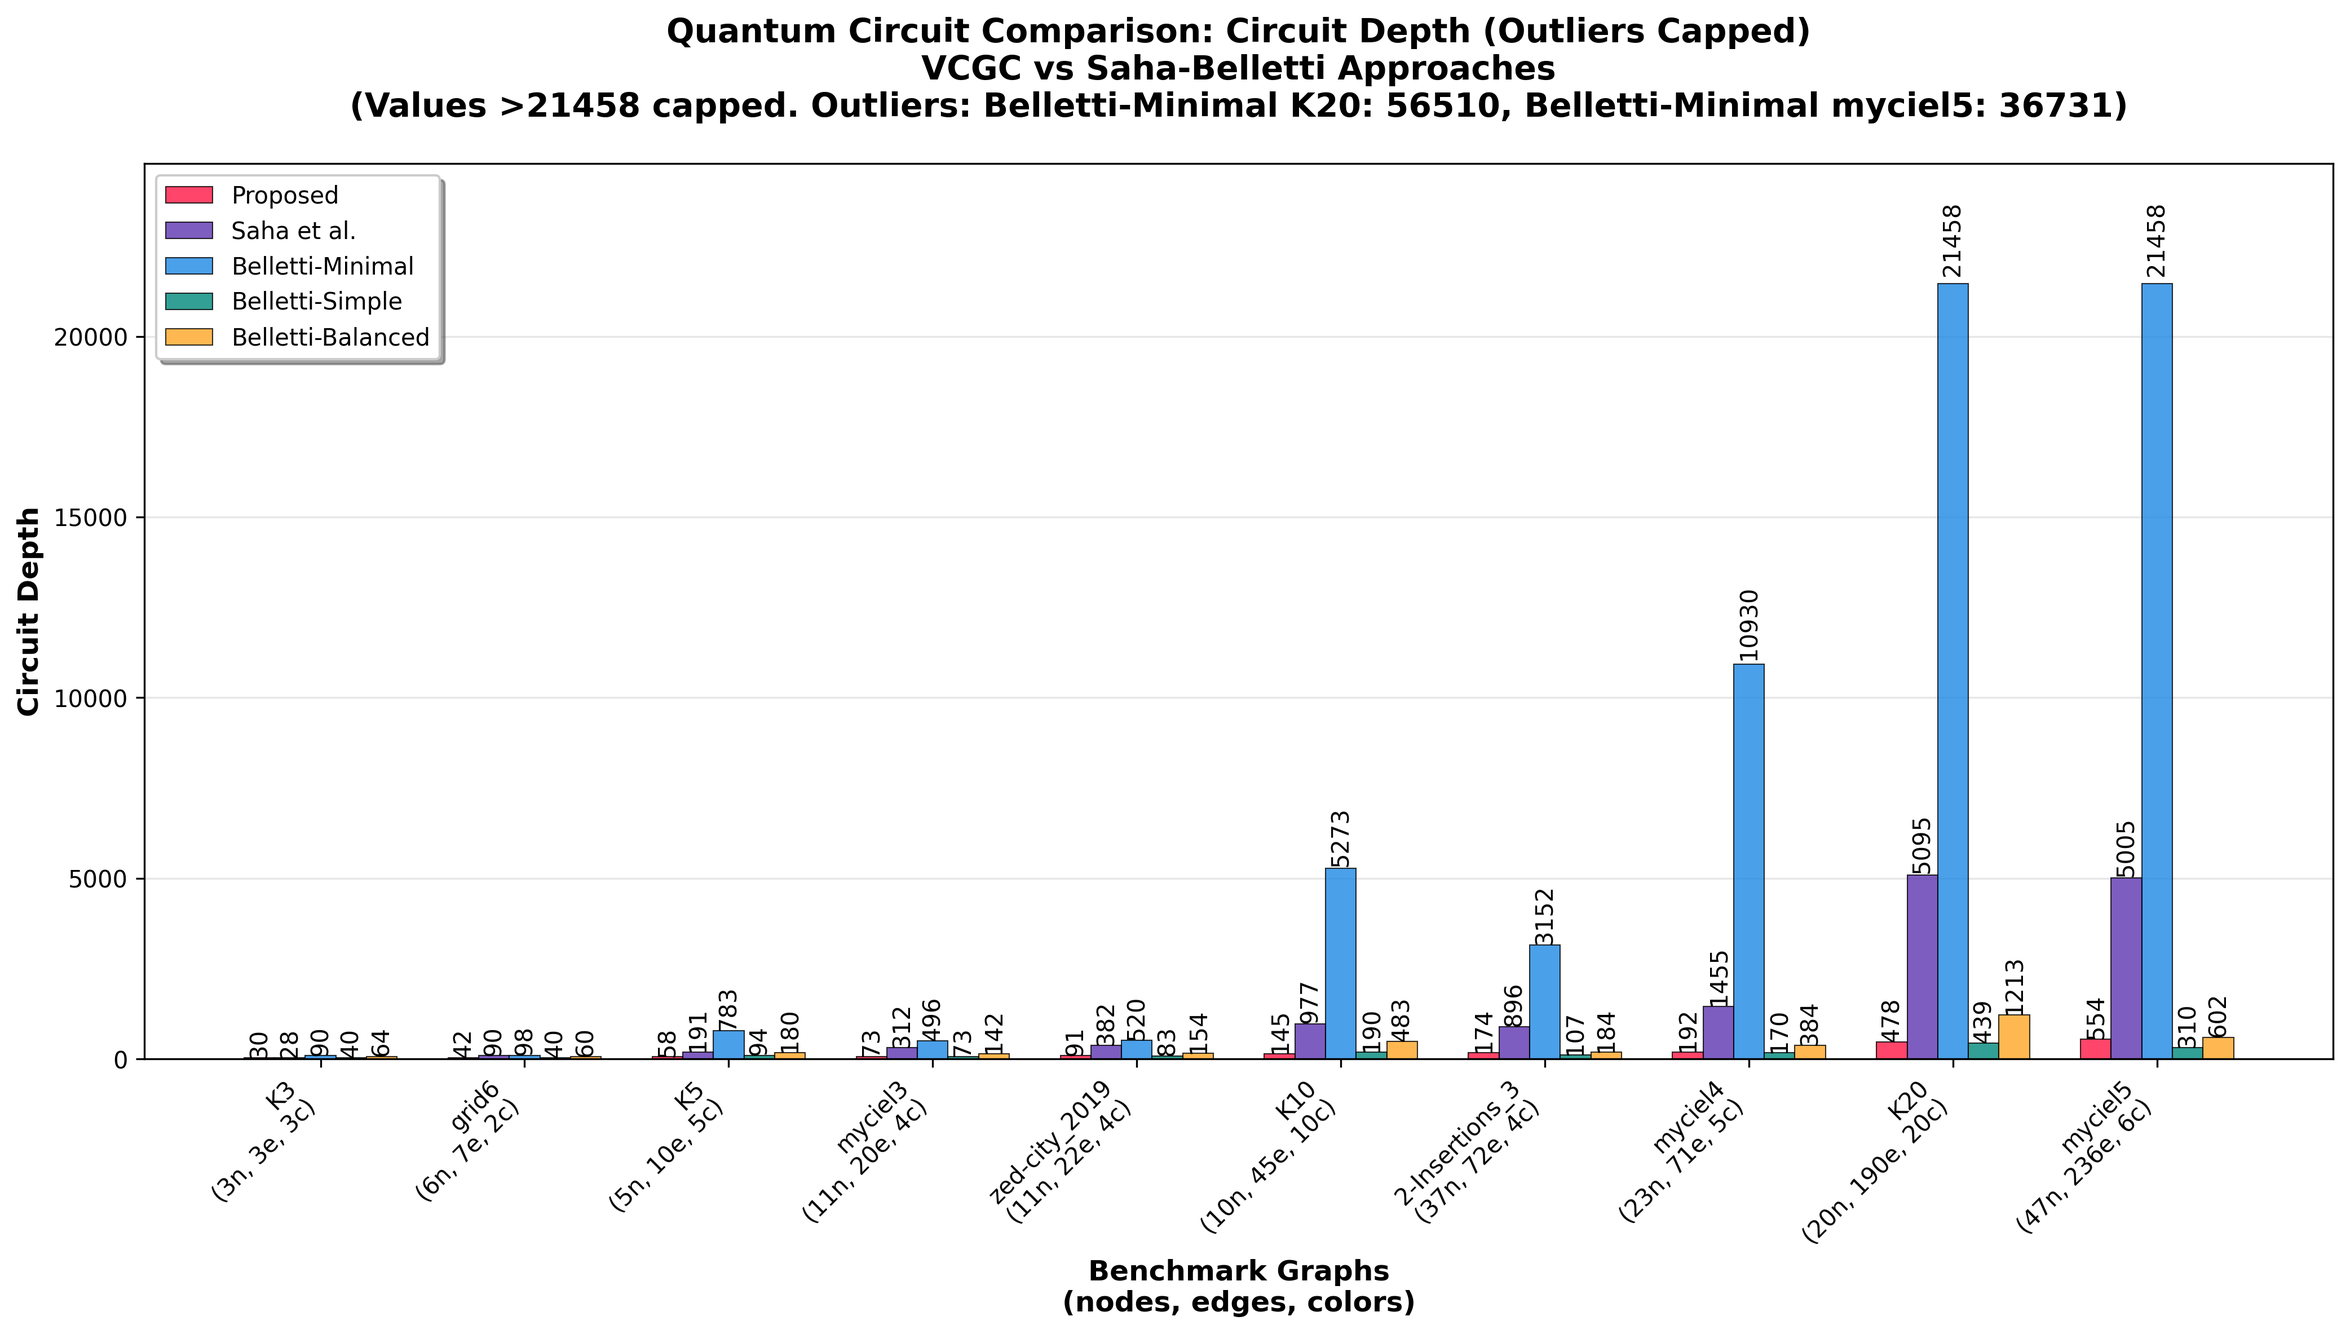
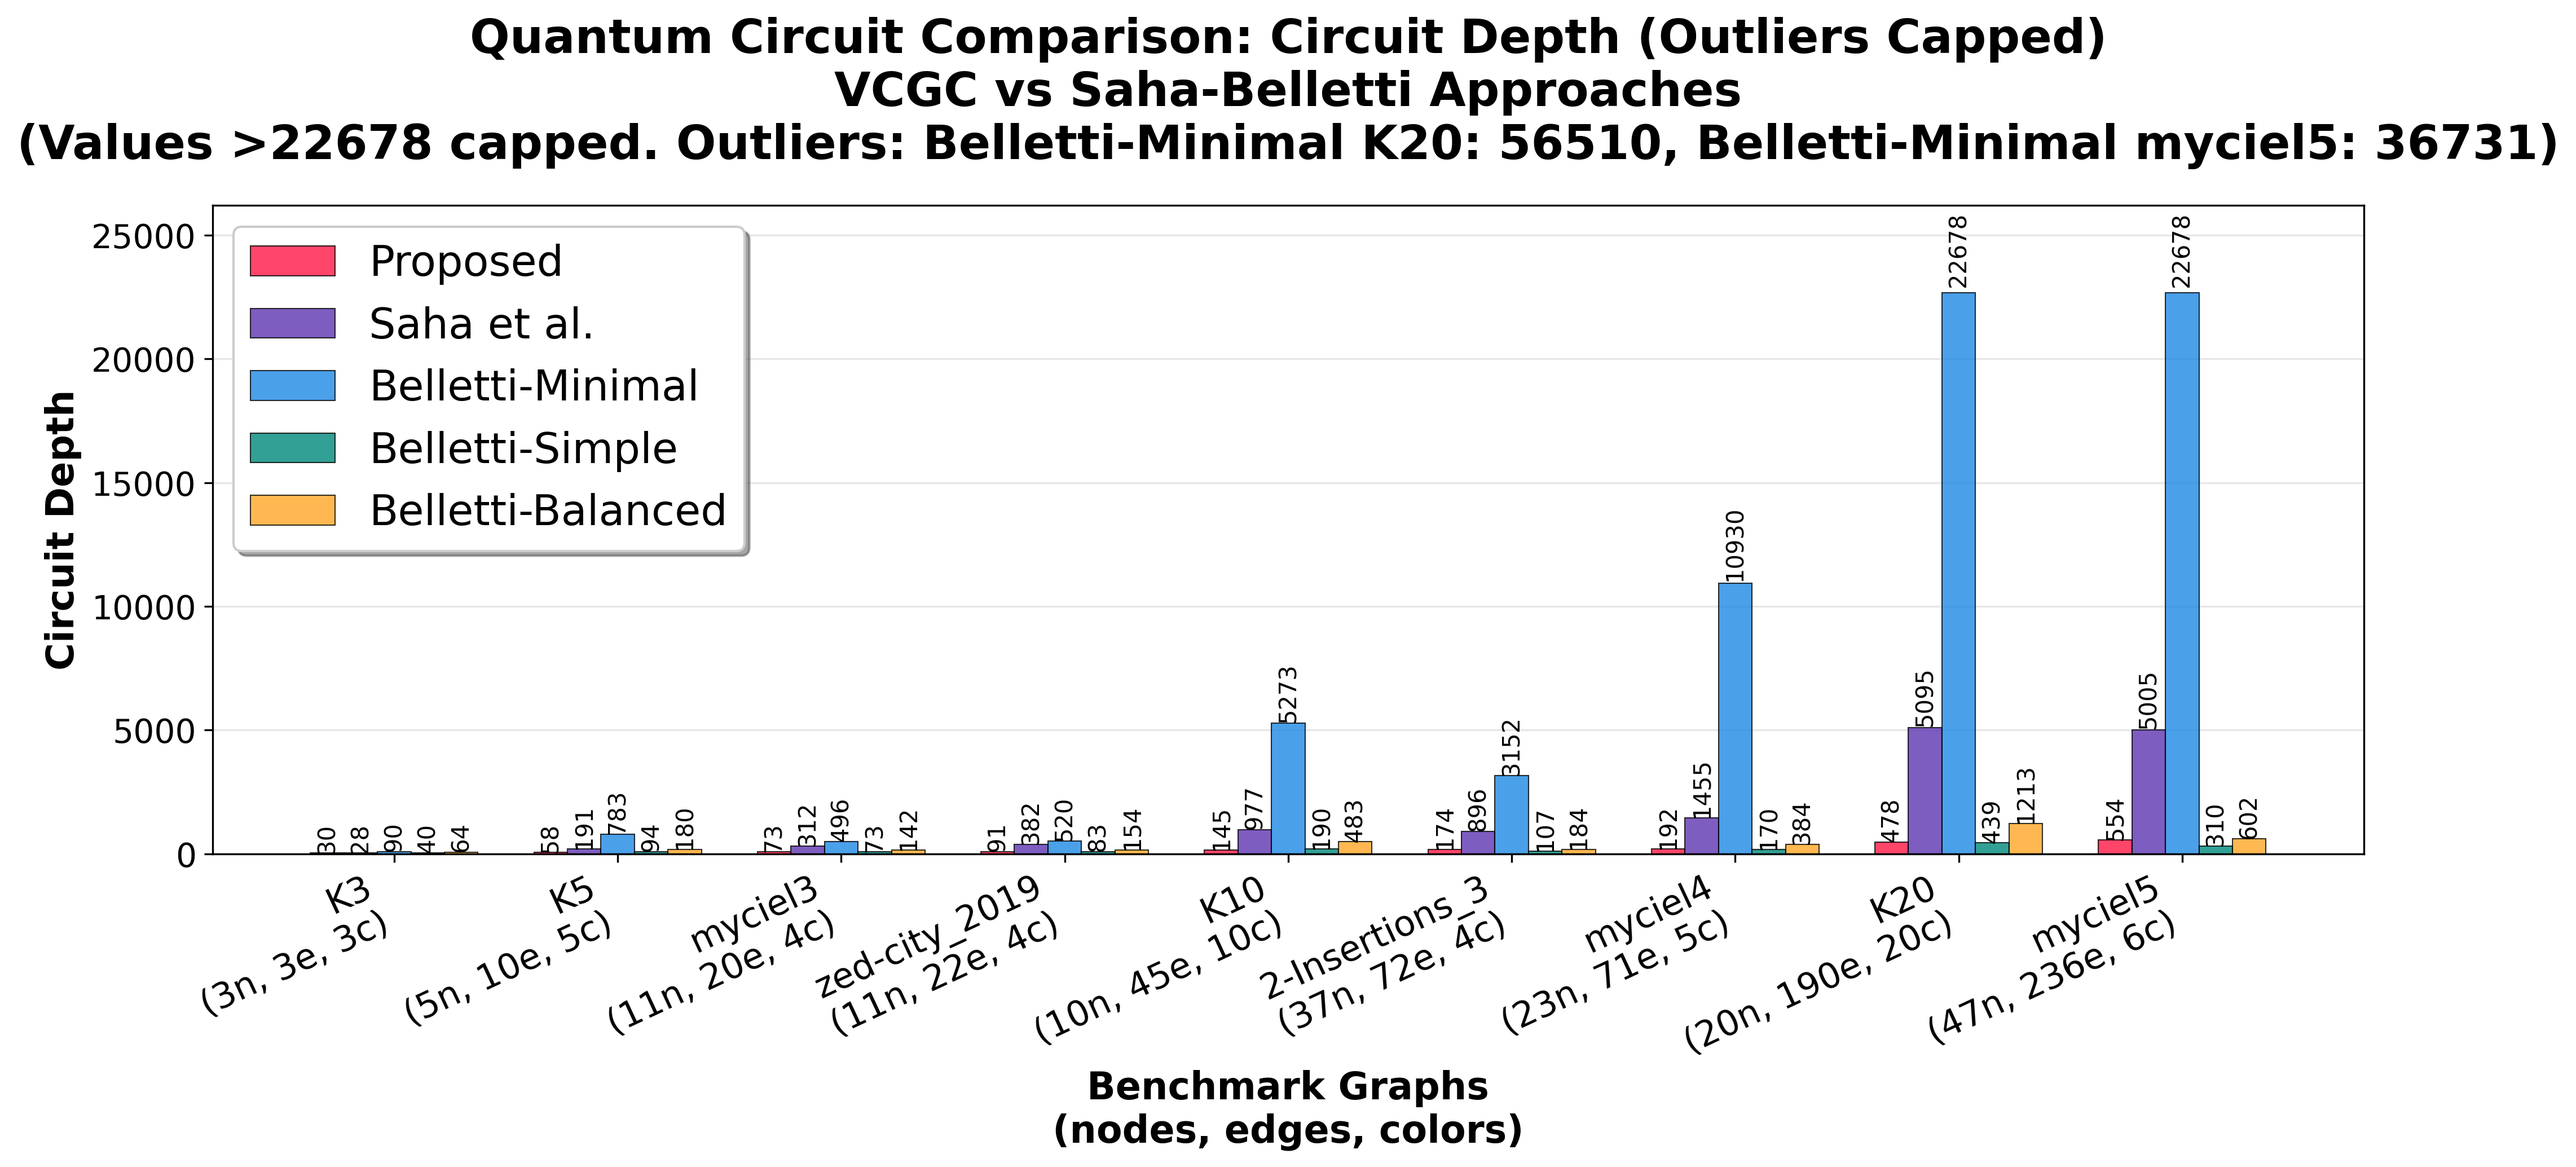
Update formatting of the plots

diff --git a/scripts/visualize_benchmarks.py b/scripts/visualize_benchmarks.py
@@ -101,7 +101,7 @@ class BenchmarkVisualizer:
         return labels
     
     def create_grouped_bar_chart(self, metric: str, title: str, ylabel: str, 
-                                filename: Optional[str] = None, figsize: tuple = (14, 8),
+                                filename: Optional[str] = None, figsize: tuple = (14, 7),
                                 log_scale: bool = False, exclude_outliers: bool = False,
                                 outlier_threshold: float = 3.0):
         """
@@ -200,14 +200,18 @@ class BenchmarkVisualizer:
             ylabel += " (log scale)"
         
         # Customize the plot
-        ax.set_xlabel('Benchmark Graphs\n(nodes, edges, colors)', fontsize=12, fontweight='bold')
-        ax.set_ylabel(ylabel, fontsize=12, fontweight='bold')
-        ax.set_title(title, fontsize=14, fontweight='bold', pad=20)
+        ax.set_xlabel('Benchmark Graphs\n(nodes, edges, colors)', fontsize=16, fontweight='bold')
+        ax.set_ylabel(ylabel, fontsize=16, fontweight='bold')
+        ax.set_title(title, fontsize=20, fontweight='bold', pad=20)
         ax.set_xticks(positions)
-        ax.set_xticklabels(graph_labels, rotation=45, ha='right', fontsize=10)
+        ax.set_xticklabels(graph_labels, rotation=25, ha='right', fontsize=15)
+        
+        
+        # Add this line to set y-axis tick label font size
+        ax.tick_params(axis='y', labelsize=14)
         
         # Add legend
-        ax.legend(loc='upper left', frameon=True, fancybox=True, shadow=True)
+        ax.legend(loc='upper left', frameon=True, fancybox=True, shadow=True, fontsize=18)
         
         # Add grid for better readability
         ax.grid(True, alpha=0.3, axis='y')
@@ -221,7 +225,7 @@ class BenchmarkVisualizer:
                     # Adjust label positioning for log scale
                     if log_scale:
                         label_y = height * 1.05
-                        fontsize = 10
+                        fontsize = 14
                     else:
                         label_y = height + max(height * 0.01, 1)
                         fontsize = 10
@@ -234,7 +238,7 @@ class BenchmarkVisualizer:
         # Adjust y-axis limits to prevent label cutoff
         if log_scale:
             # For log scale, extend the upper limit by a multiplicative factor
-            ax.set_ylim(bottom=ax.get_ylim()[0], top=ax.get_ylim()[1] * 1.6)
+            ax.set_ylim(bottom=ax.get_ylim()[0], top=ax.get_ylim()[1] * 4)
         else:
             # For linear scale, add some padding at the top
             y_max = ax.get_ylim()[1]
@@ -262,7 +266,7 @@ class BenchmarkVisualizer:
             # Create both log scale and outlier-excluded versions
             self.create_grouped_bar_chart(
                 metric='width',
-                title='Circuit Width Comparison (Log Scale)',
+                title='Circuit Width Comparison',
                 ylabel='Circuit Width',
                 filename='width_comparison_log.png' if save_charts else None,
                 log_scale=True
@@ -290,7 +294,7 @@ class BenchmarkVisualizer:
             # Create both log scale and outlier-excluded versions
             self.create_grouped_bar_chart(
                 metric='depth',
-                title='Circuit Depth Comparison (Log Scale)',
+                title='Circuit Depth Comparison',
                 ylabel='Circuit Depth',
                 filename='depth_comparison_log.png' if save_charts else None,
                 log_scale=True
@@ -318,7 +322,7 @@ class BenchmarkVisualizer:
             # Create both log scale and outlier-excluded versions
             self.create_grouped_bar_chart(
                 metric='gates',
-                title='Number of Gates Comparsion (Log Scale)',
+                title='Number of Gates Comparsion',
                 ylabel='Number of Gates',
                 filename='gates_comparison_log.png' if save_charts else None,
                 log_scale=True
